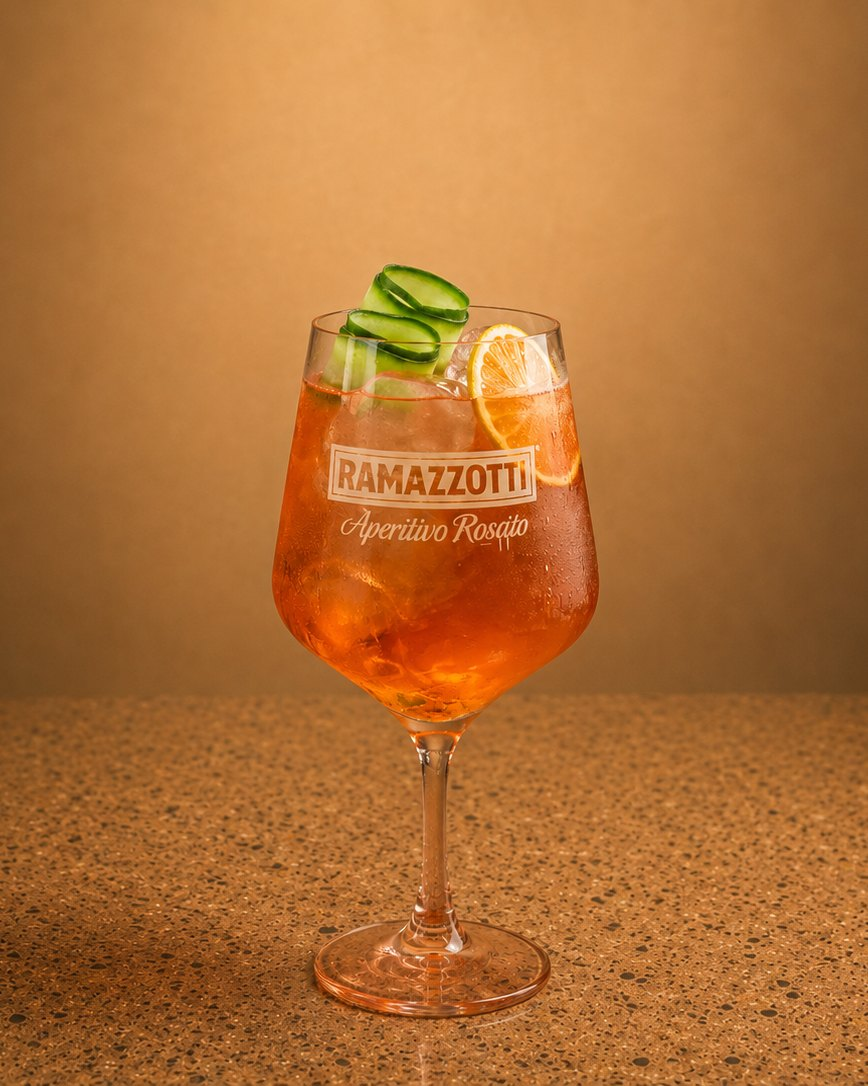
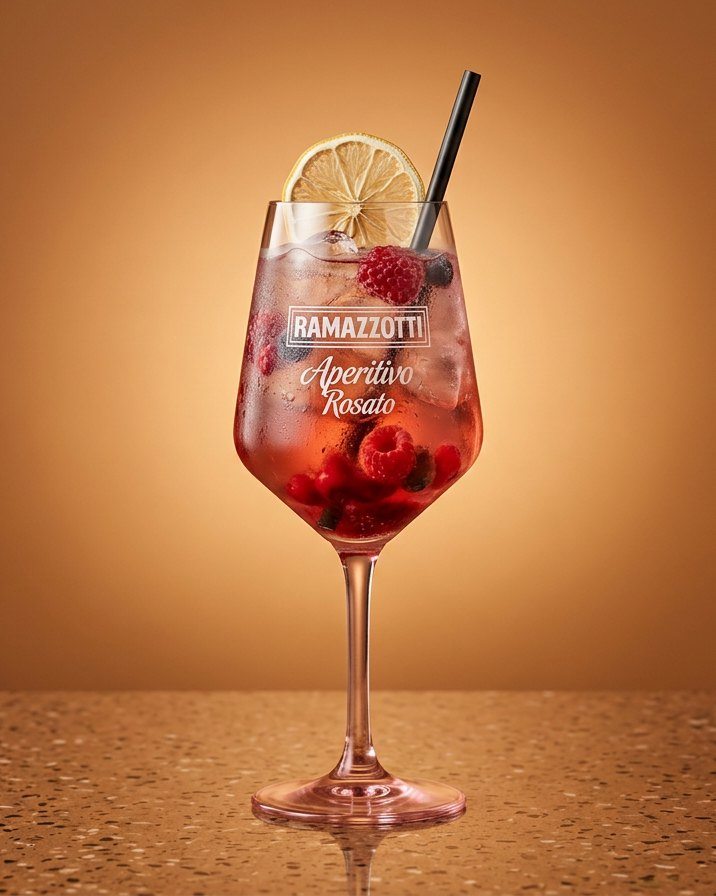
Ramazzotti: foto con frutos rojos y limón deshidratado
Claude-Session: https://claude.ai/code/session_019MoS2hn62rMDpRnL1fqsn9

diff --git a/carta/index.html b/carta/index.html
@@ -430,7 +430,7 @@ const RECETAS={
    {n:'Amargo de angostura',q:2,u:'gotas',fixed:1,sub:m=>'por vaso, ya servido'}],
   steps:['En la licuadora: 3 hielos, preparado de pisco sour y ½ cuchara de albúmina.','Licuar 1 minuto.','Servir en el vaso.','Agregar 2 gotas de amargo de angostura.']},
  'Ramazzotti Tradicional':{id:'ramazzotti',sec:'aperitivi',cat:0,name:'Ramazzotti',
-  hero:'../assets/tragos/ramazzotti/hero.jpg?v=2',
+  hero:'../assets/tragos/ramazzotti/hero.jpg?v=3',
   facts:[['Sabor','Frutal, burbujeante'],['Familia','Spritz'],['Estilo','Largo, en copa']],
   serv:[['vino','Copa Ramazzotti',null,'copa'],['hielo','Hielo hasta arriba'],['revolver','Revolver al final']],
   ing:[
@@ -493,7 +493,7 @@ const RECETAS={
 };
 const REC_ID=Object.fromEntries(Object.values(RECETAS).map(r=>[r.id,r]));
 /* fotos por trago (nombre exacto → archivo en assets/tragos). Las que faltan muestran la copa dibujada */
-const FOTOS={'Pisco Sour en botella':'../preparados/pisco-sour.jpg','Limonada en botella':'../preparados/limonada.jpg','Ramazzotti Tradicional':'ramazzotti/card.jpg?v=2','Tequila Margarita':'margarita.jpg?v=3','Fresco Pasión':'fresco-pasion.jpg?v=2','Aperol Spritz':'aperol-spritz.jpg','Orange Spritz':'orange-spritz.jpg','Pisco Sour':'pisco-sour.jpg?v=3','Limonada':'limonada.jpg'};
+const FOTOS={'Pisco Sour en botella':'../preparados/pisco-sour.jpg','Limonada en botella':'../preparados/limonada.jpg','Ramazzotti Tradicional':'ramazzotti/card.jpg?v=3','Tequila Margarita':'margarita.jpg?v=3','Fresco Pasión':'fresco-pasion.jpg?v=2','Aperol Spritz':'aperol-spritz.jpg','Orange Spritz':'orange-spritz.jpg','Pisco Sour':'pisco-sour.jpg?v=3','Limonada':'limonada.jpg'};
 const IMG_LISTA=['aperitivi','mocktails','birre','jugos','digestivi','vinos','caffe','bases'];
 const IMG_POS={mocktails:'100%',jugos:'100%',digestivi:'100%',caffe:'35%',bases:'80%'};
 
